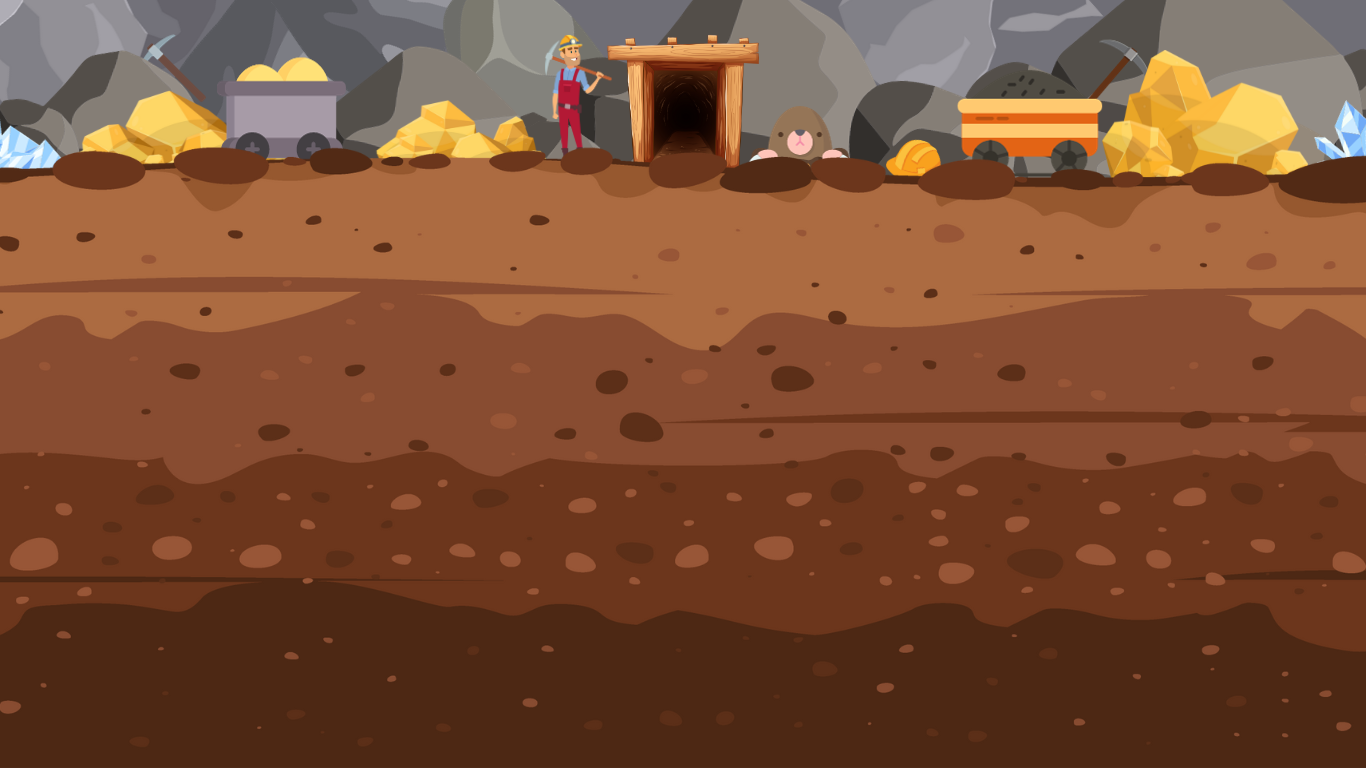
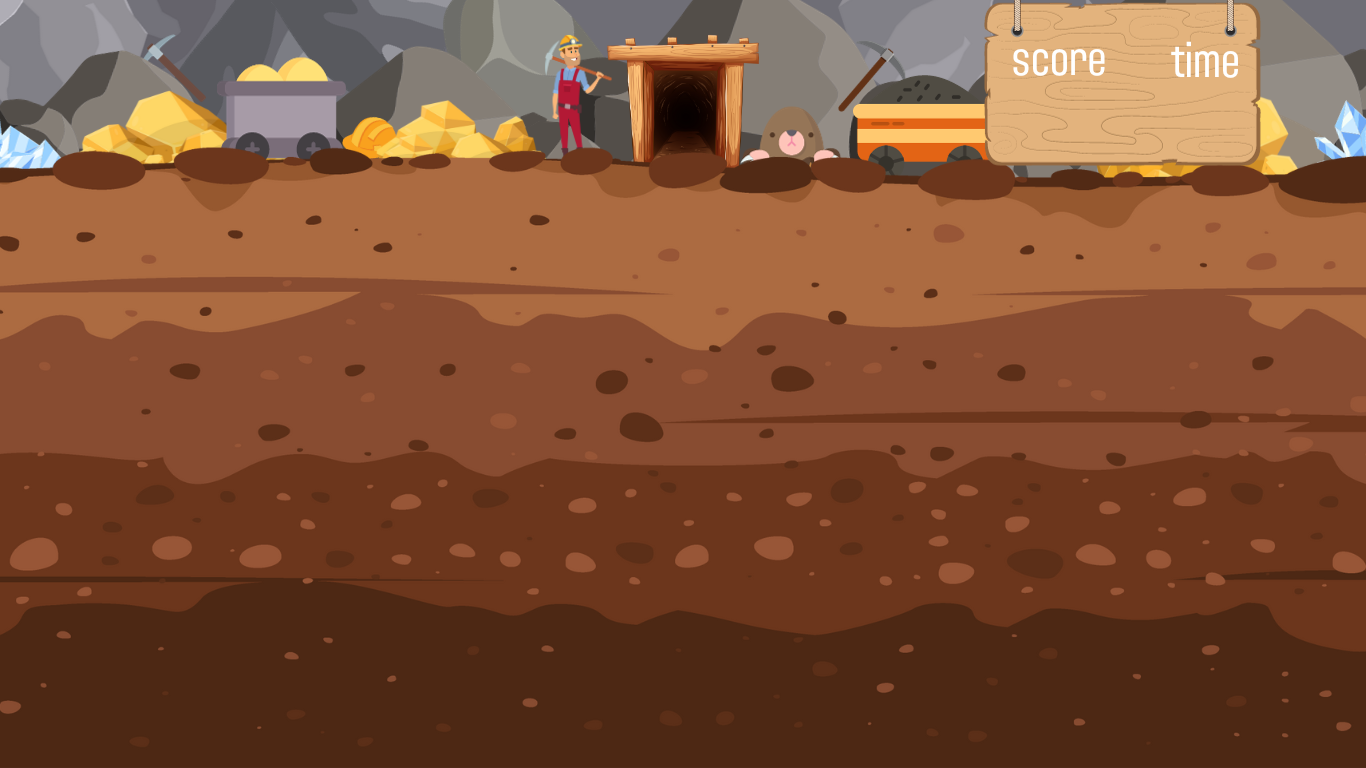
update score board and timer

Changed region(s): [[0.5227, 0.0, 0.9531, 0.25], [0.246, 0.1562, 0.3075, 0.2188]]

diff --git a/src/main/java/Project3_135/model/PauseMenu.java b/src/main/java/Project3_135/model/PauseMenu.java
@@ -12,16 +12,20 @@ import java.awt.event.MouseEvent;
 
 public class PauseMenu extends JPanel {
 
+    private GamePage pf;
+    private CardLayout cardLayout;
+    private JLabel countdownLabel;
+    private JLabel scoreLabel;
+    private JLabel pauseLabel;
+    private JPanel cardPanel;
+    private JPanel topPanel = new JPanel(new FlowLayout(FlowLayout.LEFT, 50, 20));
+    private JPanel centerPanel = new JPanel(new FlowLayout(FlowLayout.CENTER, 150, 0));
     private JButton mainMenuButton;
     private JButton backButton;
     private JButton settingButton;
     private float opacity;
     private float originalOpacity;
-    private JPanel cardPanel;
-    private CardLayout cardLayout;
-    private GamePage pf;
-    private JPanel centerPanel;
-    private volatile boolean visible;
+
 
     public PauseMenu(float opacity, JPanel cardPanel, CardLayout cardLayout, GamePage pf) {
         this.pf = pf;
@@ -37,6 +41,10 @@ public class PauseMenu extends JPanel {
     private void initializeComponents() {
         setLayout(new BorderLayout());
         setVisible(true);
+
+        createScoreCounter();
+        createCountdownLabel();
+        createPauseLabel();
 
         // Load the default image icons
         ImageIcon mainMenuIcon = new MyImageIcon(Utilities.PLAY_IMAGE_PATH).resize(100);
@@ -60,6 +68,7 @@ public class PauseMenu extends JPanel {
                 if (pf.checkGameEnd()) {
                     return;
                 }
+                pf.requestFocus();
                 pf.pauseGame();
             }
 
@@ -87,6 +96,7 @@ public class PauseMenu extends JPanel {
                     pf.stopGame();
                     super.mouseClicked(e);
                 }
+                pf.requestFocus();
             }
         });
 
@@ -97,35 +107,56 @@ public class PauseMenu extends JPanel {
             }
         });
 
-        // Create a panel for the top-left corner
-        JPanel topLeftPanel = new JPanel(new FlowLayout(FlowLayout.LEFT, 50, 0));
-        topLeftPanel.setOpaque(false);
-        topLeftPanel.add(settingButton);
+        // Add components to the top panel
+        JPanel rightPanel = new JPanel(new FlowLayout(FlowLayout.RIGHT, 50, 60));
+        rightPanel.setPreferredSize(new Dimension(1150, 110));
+        rightPanel.setOpaque(false);
+        rightPanel.add(scoreLabel);
+        rightPanel.add(countdownLabel);
+        topPanel.setOpaque(false);
+        topPanel.add(settingButton);
+        topPanel.add(rightPanel);
 
-        // Create a panel for the center region with a vertical box layout
-        centerPanel = new JPanel(new FlowLayout(FlowLayout.CENTER, 150, 0));
+        // Add components to the center panel
         centerPanel.setOpaque(false);
+        centerPanel.add(pauseLabel);
+        centerPanel.add(mainMenuButton);
+        centerPanel.add(backButton);
 
-
-        // Add "Pause" text to the center panel
-        JLabel pauseLabel = new JLabel("Pause", SwingConstants.CENTER);
-        pauseLabel.setForeground(Color.WHITE);
-        pauseLabel.setFont(new Font("Arial", Font.BOLD, 200));
-        centerPanel.add(pauseLabel, BorderLayout.NORTH);
-
-        // Add buttons to the center panel
-        centerPanel.add(mainMenuButton, BorderLayout.SOUTH);
-        centerPanel.add(backButton, BorderLayout.SOUTH);
-
-        // Add the top-left panel to the main panel
-        add(topLeftPanel, BorderLayout.NORTH);
-        // Add the center panel to the main panel
+        // Add the Panel to the frame
+        add(topPanel, BorderLayout.NORTH);
         add(centerPanel, BorderLayout.CENTER);
     }
 
+    public void setScore(int score){
+        scoreLabel.setText(String.valueOf(score));
+    }
+
+    public void setCountdown(int countdown){
+        countdownLabel.setText(String.valueOf(countdown));
+    }
+
+    private void createPauseLabel(){
+        pauseLabel = new JLabel("Pause", SwingConstants.CENTER);
+        pauseLabel.setForeground(Color.WHITE);
+        pauseLabel.setFont(new Font("Arial", Font.BOLD, 200));
+    }
+
+    private void createScoreCounter(){
+        scoreLabel = new JLabel(String.valueOf(0));
+        scoreLabel.setPreferredSize(new Dimension(120, 50));
+        scoreLabel.setForeground(Color.WHITE);
+        scoreLabel.setFont(new Font("Monaco", Font.BOLD, 50));
+    }
+
+    private void createCountdownLabel() {
+        countdownLabel = new JLabel(String.valueOf(Utilities.GAMETIME));
+        countdownLabel.setPreferredSize(new Dimension(100, 50));
+        countdownLabel.setForeground(Color.WHITE);
+        countdownLabel.setFont(new Font("Monaco", Font.BOLD, 50));
+    }
 
     public void setVisibility(boolean visible) {
-        this.visible = visible;
         centerPanel.setVisible(visible);
         if(visible){
             opacity = originalOpacity;

diff --git a/src/main/java/Project3_135/Utilities.java b/src/main/java/Project3_135/Utilities.java
@@ -3,25 +3,25 @@ package Project3_135;
 public interface Utilities {
 
     // Resource path
-    static final String PATH             = "src/main/java/Project3_135/assets/";
-    static final String PLAY_IMAGE_PATH  = PATH + "play.png";
-    static final String PLAY_HOVER_PATH  = PATH + "play_hover.png";
-    static final String HOOK_IMAGE_PATH  = PATH + "hook.png";
-    static final String DIAMOND_IMAGE_PATH  = PATH + "diamond.png";
-    static final String GOLDORE_SMALL_IMAGE_PATH  = PATH + "goldore_small.png";
-    static final String GOLDORE_LARGE_IMAGE_PATH  = PATH + "goldore_large.png";
-    static final String ROCK_SMALL_IMAGE_PATH  = PATH + "rock_small.png";
-    static final String ROCK_LARGE_IMAGE_PATH  = PATH + "rock_large.png";
-    static final String BACKGROUND1_IMAGE_PATH  = PATH + "background1.png";
-    static final String BACKGROUND2_IMAGE_PATH  = PATH + "background2.png";
-    static final String BACKGROUND3_IMAGE_PATH  = PATH + "background1.png";
-    static final String BACKGROUND4_IMAGE_PATH  = PATH + "background2.png";
-    static final String STONE_SETTING_BUTTON_IMAGE_PATH  = PATH + "stone_setting_button.png";
-    static final String STONE_SETTING_BUTTON_HOVER_IMAGE_PATH  = PATH + "stone_setting_button_hover.png";
-    static final String THEME_SOUND_PATH  = PATH + "maintheme.wav";
-    static final String ROCKHIT_SOUND_PATH  = PATH + "rockhit.wav";
-    static final String FINISH_SOUND_PATH  = PATH + "finish.wav";
-    static final String START_SOUND_PATH  = PATH + "start.wav";
+    static final String PATH                                     = "src/main/java/Project3_135/assets/";
+    static final String PLAY_IMAGE_PATH                          = PATH + "play.png";
+    static final String PLAY_HOVER_PATH                          = PATH + "play_hover.png";
+    static final String HOOK_IMAGE_PATH                          = PATH + "hook.png";
+    static final String DIAMOND_IMAGE_PATH                       = PATH + "diamond.png";
+    static final String GOLDORE_SMALL_IMAGE_PATH                 = PATH + "goldore_small.png";
+    static final String GOLDORE_LARGE_IMAGE_PATH                 = PATH + "goldore_large.png";
+    static final String ROCK_SMALL_IMAGE_PATH                    = PATH + "rock_small.png";
+    static final String ROCK_LARGE_IMAGE_PATH                    = PATH + "rock_large.png";
+    static final String BACKGROUND1_IMAGE_PATH                   = PATH + "background1.png";
+    static final String BACKGROUND2_IMAGE_PATH                   = PATH + "background2.png";
+    static final String BACKGROUND3_IMAGE_PATH                   = PATH + "background1.png";
+    static final String BACKGROUND4_IMAGE_PATH                   = PATH + "background2.png";
+    static final String STONE_SETTING_BUTTON_IMAGE_PATH          = PATH + "stone_setting_button.png";
+    static final String STONE_SETTING_BUTTON_HOVER_IMAGE_PATH    = PATH + "stone_setting_button_hover.png";
+    static final String THEME_SOUND_PATH                         = PATH + "maintheme.wav";
+    static final String ROCKHIT_SOUND_PATH                       = PATH + "rockhit.wav";
+    static final String FINISH_SOUND_PATH                        = PATH + "finish.wav";
+    static final String START_SOUND_PATH                         = PATH + "start.wav";
 
     // Frame setting
     int FRAMEWIDTH = 1366;

diff --git a/src/main/java/Project3_135/components/GamePage.java b/src/main/java/Project3_135/components/GamePage.java
@@ -7,8 +7,6 @@ import javax.swing.*;
 import java.awt.*;
 import java.awt.event.KeyEvent;
 import java.awt.event.KeyListener;
-import java.awt.event.MouseAdapter;
-import java.awt.event.MouseEvent;
 import java.util.List;
 import java.util.Random;
 import java.util.concurrent.CopyOnWriteArrayList;
@@ -17,17 +15,16 @@ import java.util.concurrent.CountDownLatch;
 
 public class GamePage extends BasePage {
 
-    private final MySoundEffect finishSound = new MySoundEffect(Utilities.FINISH_SOUND_PATH);
-    private final int itemAmount = Utilities.ITEMAMOUNT;
-    private final int[] line = new int[4];
-    private final List<ItemLabel> itemList = new CopyOnWriteArrayList<>();
-    private final CountDownLatch itemLatch = new CountDownLatch(itemAmount);
     private PauseMenu pauseMenu;
-    private int timer;
-    private int totalScore = 0;
-    private int itemCount = 0;
     private HookLabel hookLabel;
     private Image backgroundImage;
+    private int totalScore = 0;
+    private int itemCount = 0;
+    private final int[] line = new int[4];
+    private final int itemAmount = Utilities.ITEMAMOUNT;
+    private final List<ItemLabel> itemList = new CopyOnWriteArrayList<>();
+    private final CountDownLatch itemLatch = new CountDownLatch(itemAmount);
+    private final MySoundEffect finishSound = new MySoundEffect(Utilities.FINISH_SOUND_PATH);
     private boolean pause = false;
     private boolean gameEnd = false;
 
@@ -60,7 +57,6 @@ public class GamePage extends BasePage {
         this.addKeyListener(new KeyListener() {
             @Override
             public void keyTyped(KeyEvent e) {
-
             }
 
             @Override
@@ -154,7 +150,7 @@ public class GamePage extends BasePage {
     }
 
     private void startTimer() {
-        final int[] countdownSeconds = {Utilities.GAMETIME + 1};
+        final int[] countdownSeconds = {Utilities.GAMETIME};
 
         Timer timer = new Timer(1000, e -> {
             if (pause) {
@@ -162,7 +158,7 @@ public class GamePage extends BasePage {
             }
             if (countdownSeconds[0] > 0) {
                 countdownSeconds[0]--;
-                this.timer = countdownSeconds[0]; // Update the class variable
+                pauseMenu.setCountdown(countdownSeconds[0]+ 1);
             } else {
                 ((Timer) e.getSource()).stop();
                 gameEnd();
@@ -238,6 +234,9 @@ public class GamePage extends BasePage {
                 if (existingItem.getBounds().intersects(newItem.getBounds())) {
                     return true;
                 }
+                if(hookLabel.getOriginalBound().intersects(newItem.getBounds())){
+                    return true;
+                }
             }
             return false;
         }
@@ -245,6 +244,7 @@ public class GamePage extends BasePage {
 
     synchronized private void updateScore(int score) {
         totalScore += score;
+        pauseMenu.setScore(totalScore);
     }
 
     @Override
@@ -274,7 +274,7 @@ public class GamePage extends BasePage {
         finishSound.playOnce();
     }
 
-    public boolean checkGameEnd(){
+    public boolean checkGameEnd() {
         return gameEnd;
     }
 
